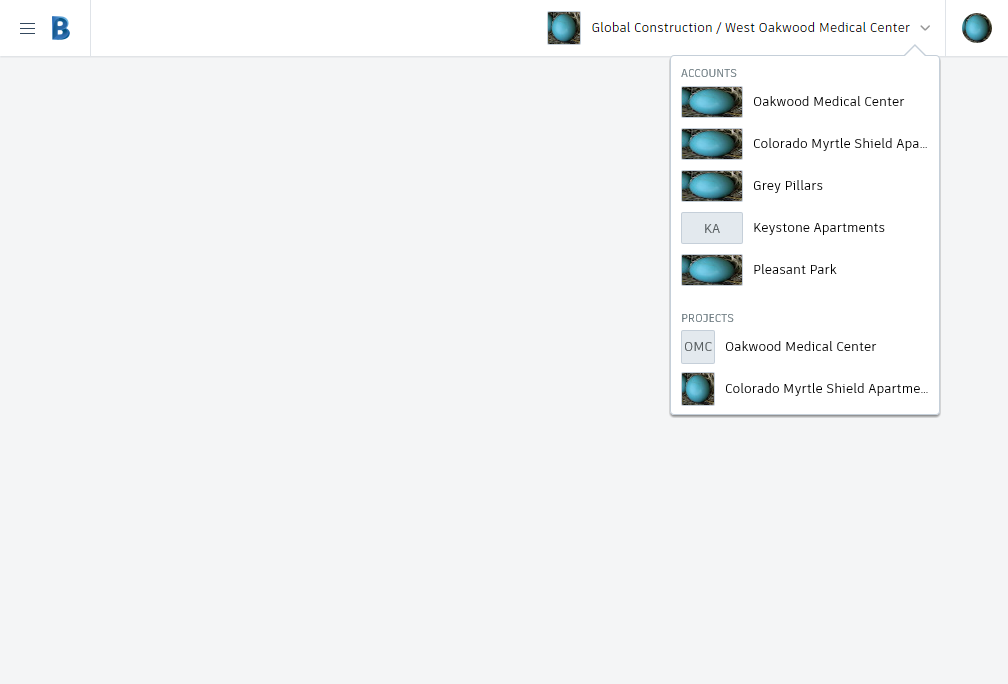
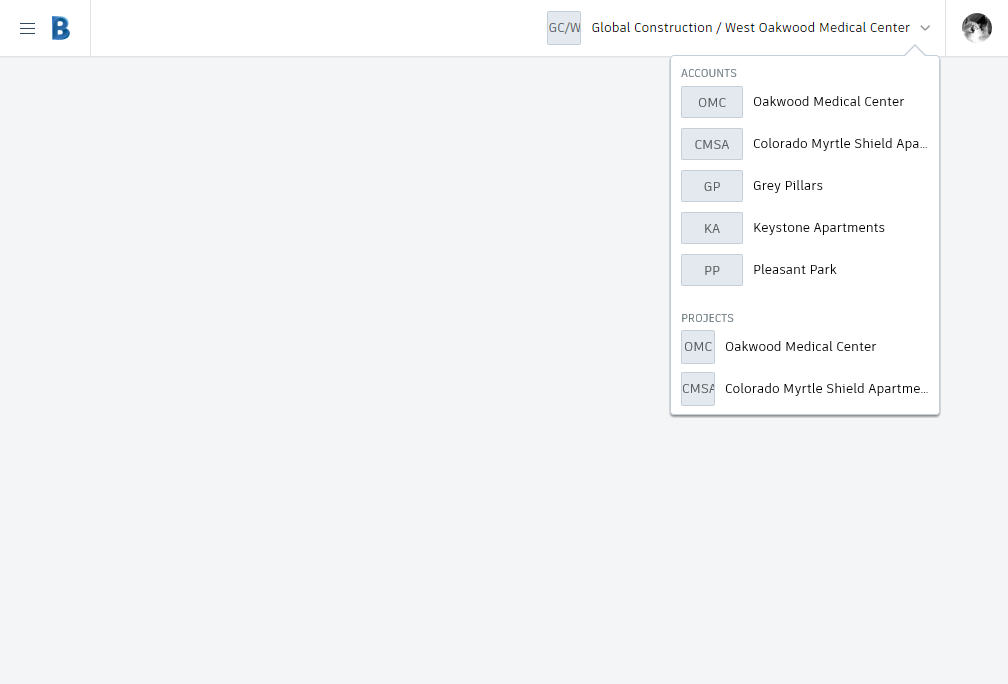
Remove images from profile gemini test

diff --git a/src/web/components/global-nav/top-nav/project-account-switcher/tests/gemini-project-account-switcher.html b/src/web/components/global-nav/top-nav/project-account-switcher/tests/gemini-project-account-switcher.html
@@ -27,16 +27,13 @@
             TopNav.setLogoLink("http://autodesk.com"); // update logo link
 
             // CREATE PROFILE
-            var MyProfile1 = new TopNav.partials.Profile({
-                image: "../../../tests/egg.jpg",
-            });
+            var MyProfile1 = new TopNav.partials.Profile({});
 
             TopNav.addProfile(MyProfile1);
 
             // CREATE PROJECT ACCOUNT SWITCHER
             var ProjectAccountSwitcher = new TopNav.partials.ProjectAccountSwitcher({
                 activeLabel: 'Global Construction / West Oakwood Medical Center',
-                activeImage: '../../../tests/egg.jpg',
                 activeType: 'project'
             });
 
@@ -45,10 +42,10 @@
             // ADD PROJECTS
             var projectsData = [
                 { label: 'Oakwood Medical Center' },
-                { label: 'Colorado Myrtle Shield Apartments', image: '../../../tests/egg.jpg' },
-                { label: 'Grey Pillars', image: '../../../tests/egg.jpg' },
+                { label: 'Colorado Myrtle Shield Apartments' },
+                { label: 'Grey Pillars' },
                 { label: 'Keystone Apartments' },
-                { label: 'Pleasant Park', image: '../../../tests/egg.jpg' }
+                { label: 'Pleasant Park' }
             ];
             var projectComponents = projectsData.map((project) => {
                 return new ProjectAccountSwitcher.partials.Project(project);
@@ -59,11 +56,11 @@
 
             // ADD ACCOUNT
             var accountsData = [
-                { label: 'Oakwood Medical Center', image: '../../../tests/egg.jpg' },
-                { label: 'Colorado Myrtle Shield Apartments', image: '../../../tests/egg.jpg' },
-                { label: 'Grey Pillars', image: '../../../tests/egg.jpg' },
+                { label: 'Oakwood Medical Center' },
+                { label: 'Colorado Myrtle Shield Apartments' },
+                { label: 'Grey Pillars' },
                 { label: 'Keystone Apartments' },
-                { label: 'Pleasant Park', image: '../../../tests/egg.jpg' }
+                { label: 'Pleasant Park' }
             ];
             var accountComponents = accountsData.map((account) => {
                 return new ProjectAccountSwitcher.partials.Account(account);
